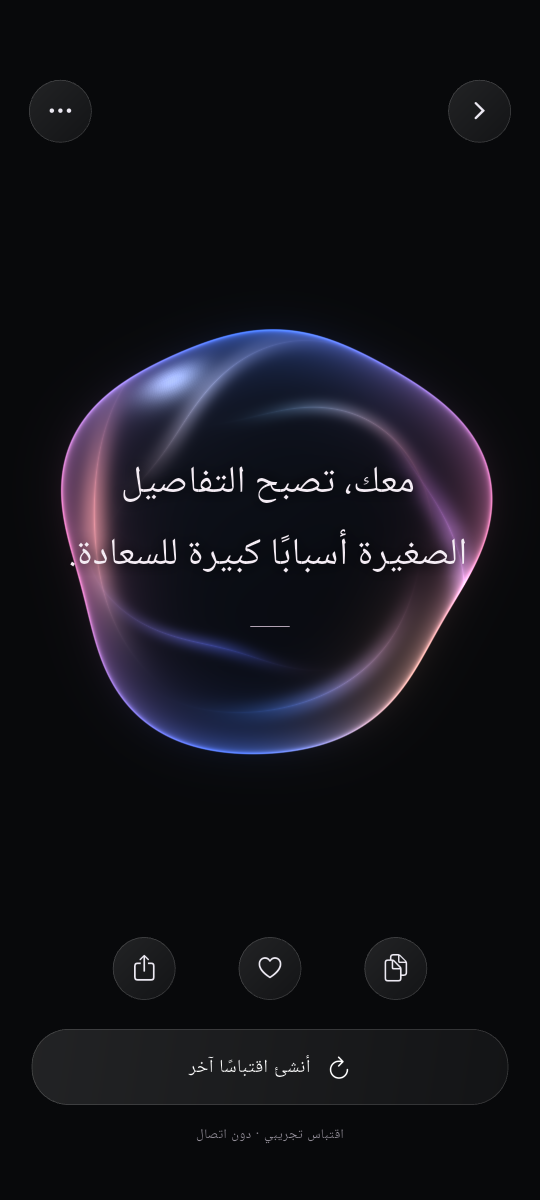
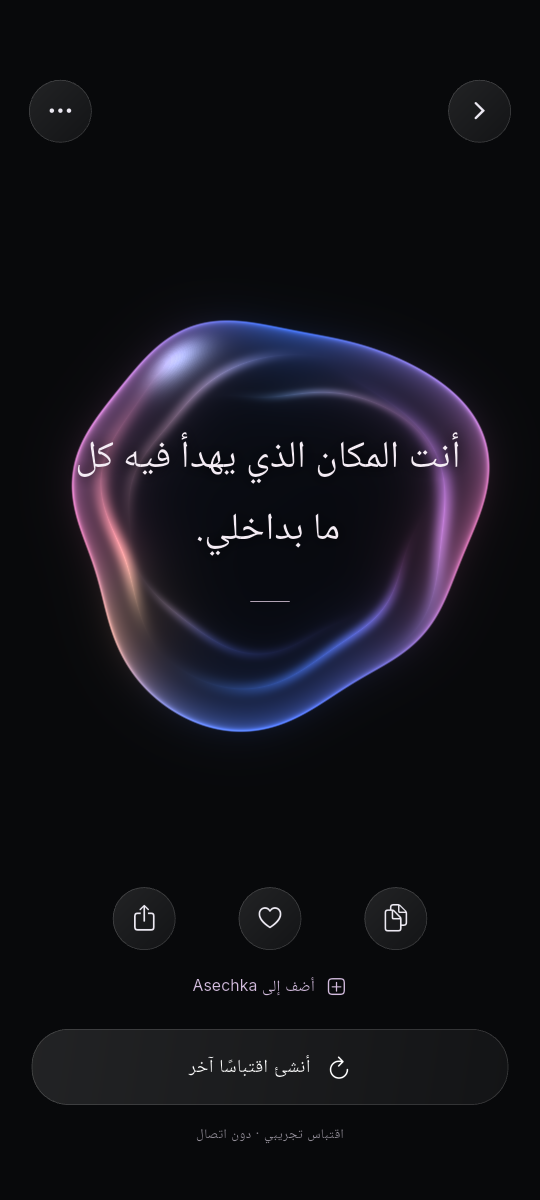
Record verified 1.1 builds and reactive quote renderer [skip ci]

diff --git a/docs/VALIDATION.md b/docs/VALIDATION.md
@@ -6,14 +6,14 @@ This file records observed validation, separately from configuration that still 
 
 - Flutter `3.38.10` / Dart `3.10.9` dependency resolution with committed lockfile.
 - Flutter static analysis without findings.
-- Twelve Flutter unit/widget tests: persistent collections/settings, bounded history, damaged storage recovery, cancellation races, provider failures, UTF-8, input options, creation/favorites/copy/library navigation, Hebrew RTL, and small-screen large-text layout.
+- Eighty-two Flutter unit/widget tests: persistence and cancellation; provider failures and UTF-8; creation/favorites/copy/library; Hebrew RTL and small-screen large-text layout; stable orb State through generation/regeneration; finite text emergence and Reduce Motion; outside-tap keyboard dismissal; Asechka login, strict confirmations, redirect refusal, secure-session failures, persistent retry IDs, duplicate prevention, and cancellation of pending sign-in.
 - Twelve Gemini gateway tests using Node’s built-in test runner, including real Cloudflare runtime/Durable Object SQL concurrency, global quotas, provider free-tier quota handling, and diagnostics that exclude credentials and provider messages.
 - Nine CI configuration/package tests: preview defaults, production endpoint gating, URL/tag validation, complete/partial signing credentials, secret handling, valid device IPA packaging, and rejection of simulator SDKs and ARM64 simulator binaries.
 - Wrangler `4.61.1` deployment dry run successfully bundles the Worker and Durable Object bindings.
 - GitHub workflow syntax and expressions checked with actionlint `1.7.11`.
 
 - Android release-mode universal APK compiled successfully with the debug signing key for offline preview installation.
-- Android API 35 emulator device flow passed with the actual shader renderer, screenshot capture, favorites, and Arabic/Hebrew quote direction. Emulator screenshots are included in `docs/screenshots/`.
+- Version 1.1 Android API 35 emulator integration passed with the actual shader renderer: idle motion frames, a held generation phase, center-out text emergence, favorites, and Arabic/Hebrew quote direction. Keyboard show/hide was observed in Android IME logs after the outside tap. Updated emulator screenshots, including generating and emerging phases, are included in `docs/screenshots/`. This software-rendered debug emulator run does not measure phone frame rates.
 - Android XML and iOS plist/privacy-manifest XML parsed successfully; Python CI scripts passed compilation checks.
 
 The local emulator screenshots show the offline preview. The delivered `dist/Shakespeare-Android.apk` has since been replaced with the GitHub-built live-AI APK, using a disposable debug signing key. The delivered IPA is the GitHub-built live-AI device app, ready for re-signing by a sideloader. Build logs, SHA-256 checksums, and a verification manifest accompany these files in `dist/`.
@@ -21,10 +21,11 @@ The local emulator screenshots show the offline preview. The delivered `dist/Sha
 ## Verified on hosted services
 
 - Public repository: https://github.com/YoussefElb-Dev/Shakespeare. The initial private-repository billing block was resolved by switching to public standard runners with the owner’s permission.
-- [iOS run 41169525385](https://github.com/YoussefElb-Dev/Shakespeare/actions/runs/41169525385) passed Flutter checks, simulator compilation, Xcode 26.2 ARM64 device compilation, and unsigned device IPA packaging with live AI enabled. Delivered version: 1.0.0 build 4, iOS 15 minimum, bundle identifier `app.shakespeare.shakespeare`, 8,338,653 bytes.
[1 lines of base64/hex data omitted]
-- [Android run 41169525387](https://github.com/YoussefElb-Dev/Shakespeare/actions/runs/41169525387) passed Flutter checks and compiled the universal APK with live AI enabled. The downloaded APK passed its hosted checksum, `apksigner` verification, and package/SDK/ABI inspection: version 1.0.0 build 4, min SDK 24, target SDK 36, ARM64/ARMv7/x86_64. It uses the disposable debug certificate for personal installation; the artifact name includes `preview` to identify this signing mode.
-- [Gateway run 41169525557](https://github.com/YoussefElb-Dev/Shakespeare/actions/runs/41169525557) passed all twelve gateway tests, nine CI configuration/package tests, and Worker bundling checks.
+- [iOS run 41171666841](https://github.com/YoussefElb-Dev/Shakespeare/actions/runs/41171666841) passed all 82 Flutter tests, simulator compilation, Xcode 26.2 ARM64 device compilation, and unsigned device IPA packaging with live AI enabled. Delivered version: 1.1.0 build 5, iOS 15 minimum, bundle identifier `app.shakespeare.shakespeare`, 8,451,646 bytes.
[2 lines of base64/hex data omitted]
+- [Gateway run 41171666830](https://github.com/YoussefElb-Dev/Shakespeare/actions/runs/41171666830) passed all twelve gateway tests, nine CI configuration/package tests, and Worker bundling checks.
+- The separate Asechka publishing endpoint is deployed on its canonical origin. Thirty-two focused auth, collection, social, and Shakespeare API tests passed. Live sign-in and negative auth/validation checks passed without posting test content; successful writes, concurrency and lost-response retries were tested against a mocked GitHub store. The website and native apps read the same canonical collection. A real publish is reserved for the user's explicit button click. See [API verification](../backend/ASECHKA_API.md).
 - Cloudflare Worker and SQLite Durable Object deployed; both provider credential and rate-limit salt are encrypted Worker secrets. Google AI Studio shows Free tier. The default model is Gemini 3.5 Flash-Lite; Google rejected 2.5 Flash-Lite as unavailable to new users.
 - Live HTTPS generation passed in English, Arabic, Egyptian Arabic, Hebrew, French, Russian, Spanish, German, Italian, Turkish, and Chinese. The app’s actual Dart `RemoteQuoteService` also passed English and long Urdu requests with `isPreview: false`, completing live checks across all twelve supported languages.
 - The GitHub `QUOTE_API_URL` variable is configured with the deployed endpoint. No AI provider key is supplied to mobile builds.

diff --git a/README.md b/README.md
@@ -14,7 +14,7 @@ This checkout is published at [YoussefElb-Dev/Shakespeare](https://github.com/Yo
 
 Without a gateway endpoint, both apps use a clearly labelled offline preview. Without Android signing secrets, the APK uses a disposable debug signing key. Without Apple distribution secrets, iOS validates a simulator app and builds an unsigned ARM64 **device IPA** for re-signing with Sideloadly or AltStore Classic. The separate simulator ZIP cannot run on an iPhone. A configured endpoint enables live AI independently of distribution signing. See [validation status](docs/VALIDATION.md) for what has actually been tested.
 
-Rendered Android screens: [home](docs/screenshots/home.png), [categories](docs/screenshots/categories.png), [customization](docs/screenshots/customize.png), [English](docs/screenshots/english.png), [Arabic](docs/screenshots/arabic.png), [Hebrew](docs/screenshots/hebrew.png).
+Rendered Android screens: [home](docs/screenshots/home.png), [categories](docs/screenshots/categories.png), [customization](docs/screenshots/customize.png), [generating](docs/screenshots/generating.png), [emerging words](docs/screenshots/emerging.png), [English](docs/screenshots/english.png), [Arabic](docs/screenshots/arabic.png), [Hebrew](docs/screenshots/hebrew.png).
 
 For personal sideloading, no Apple certificate is needed in GitHub. Download the `Shakespeare-iOS-Unsigned-Sideload` artifact, extract the IPA, and import it into your sideloading tool. That tool must sign it using your Apple account. AI access still needs the Gemini gateway endpoint.
 
